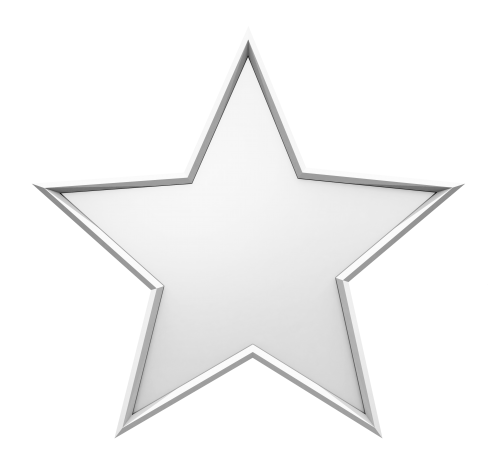
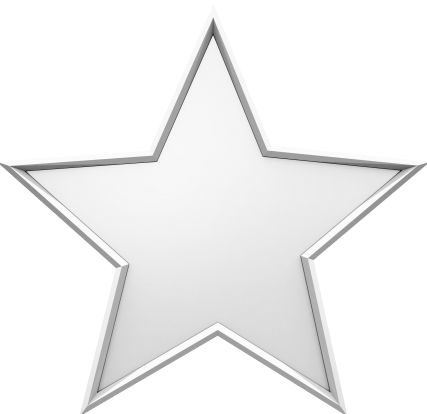
css changed

Changed region(s): [[0.0, 0.029, 1.0, 1.0]]

diff --git a/frontend/src/components/PostWish.js b/frontend/src/components/PostWish.js
@@ -61,7 +61,6 @@ export default class PostWish extends Component {
     axios
       .post('/posts', this.state.form)
       .then(response => {
-        console.log(response.data, 'success');
         this.getAllWishes();
       })
       .catch(err => {
@@ -101,13 +100,10 @@ export default class PostWish extends Component {
     return (
       <React.Fragment>
         <div className='main'>
-          <div className='container'>
-            {/* <div className='row mt-5'> */}
-
-            {/* <div className='col-4'> */}
+          <div className='container-fluid mlr-5s'>
             <div className='d-flex justify-content-center'>
-              <div className='card bg-card my-2'   style={{width:'100%'}}>
-                <div className='card-body'>
+              <div className='card bg-card bg-transparent my-2'   style={{width:'80%'}}>
+                <div className='card-body' style={{paddingBottom: '0px'}}>
                   {/* Create the form here */}
                   <form className='form-inline' onSubmit={this.handleSubmit}>
                     {/* Username */}
@@ -155,7 +151,7 @@ export default class PostWish extends Component {
                       <center>
                         <textarea
                           className='form-control ml-1'
-                          style={{width:'35vw'}}
+                          style={{width:'37vw'}}
                           id='wish'
                           name='wish'
                           placeholder='Drop in your Wish'

diff --git a/frontend/src/components/ShowWishes.js b/frontend/src/components/ShowWishes.js
@@ -18,10 +18,10 @@ export default class ShowWishes extends Component {
   render() {
     return (
       <React.Fragment>
-        <div className='row'>
+        <div className="ml-5 ">
           {this.state.allWishes.map(wishObj => (
-            <div className='col' key={wishObj._id}>
-              <div className='star-image'>
+            // <div className='col' key={wishObj._id}>
+              <div className='star-image' key={wishObj.id}>
                 {wishObj.wish.length > 50 ? (
                   <img
                     src='star.png'
@@ -39,10 +39,10 @@ export default class ShowWishes extends Component {
                 )}
                 {/* <img src='star.png' alt='' /> */}
                 <div className='centered'>
-                  <h4>{wishObj.wish}</h4>
+                  <h4>{wishObj.wish} <br/> --{wishObj.username}</h4>
                 </div>
               </div>
-            </div>
+            // </div>
 
             // <div key={wishObj._id} className='col-xxl-6'>
             //   <div

diff --git a/frontend/src/App.css b/frontend/src/App.css
@@ -23,6 +23,9 @@ img {
   color: white;
   display: inline-flex;
   resize: both;
+  padding-left: 20px;
+  padding-right: 20px;
+  font-family: 'Pacifico', cursive;
   /* overflow:hidden; */
   /* height: 100%; */
   /* width: fit-content; */
@@ -30,10 +33,9 @@ img {
   padding: 10%; */
 }
 
-/* .star-image img {
-  min-height: 100px;
-  min-width: 100px;
-} */
+.star-image img {
+  opacity: .7;
+}
 
 .centered {
   /* word-wrap: break-word; */
@@ -41,7 +43,7 @@ img {
   /* margin-left: 5%; */
   margin: auto;
   /* margin-right: 5%; */
-  top: 50%;
+  top: 55%;
   left: 50%;
   color: black;
   transform: translate(-50%, -50%);

diff --git a/frontend/src/App.js b/frontend/src/App.js
@@ -1,7 +1,6 @@
 import './App.css';
 import React from 'react';
 import 'bootstrap/dist/css/bootstrap.min.css';
-
 import PostWish from './components/PostWish';
 
 function App() {
@@ -11,7 +10,7 @@ function App() {
         <img
           src='navbar.jpg'
           className='sticky'
-          style={{ width: '100vw', height: '80px' }}
+          style={{ width: '100%', height: '80px' }}
           alt=''
         />
       </div>

diff --git a/frontend/src/index.css b/frontend/src/index.css
@@ -1,3 +1,4 @@
+@import url('https://fonts.googleapis.com/css2?family=Pacifico&display=swap');
 body {
   margin: 0;
   font-family: -apple-system, BlinkMacSystemFont, 'Segoe UI', 'Roboto', 'Oxygen',
